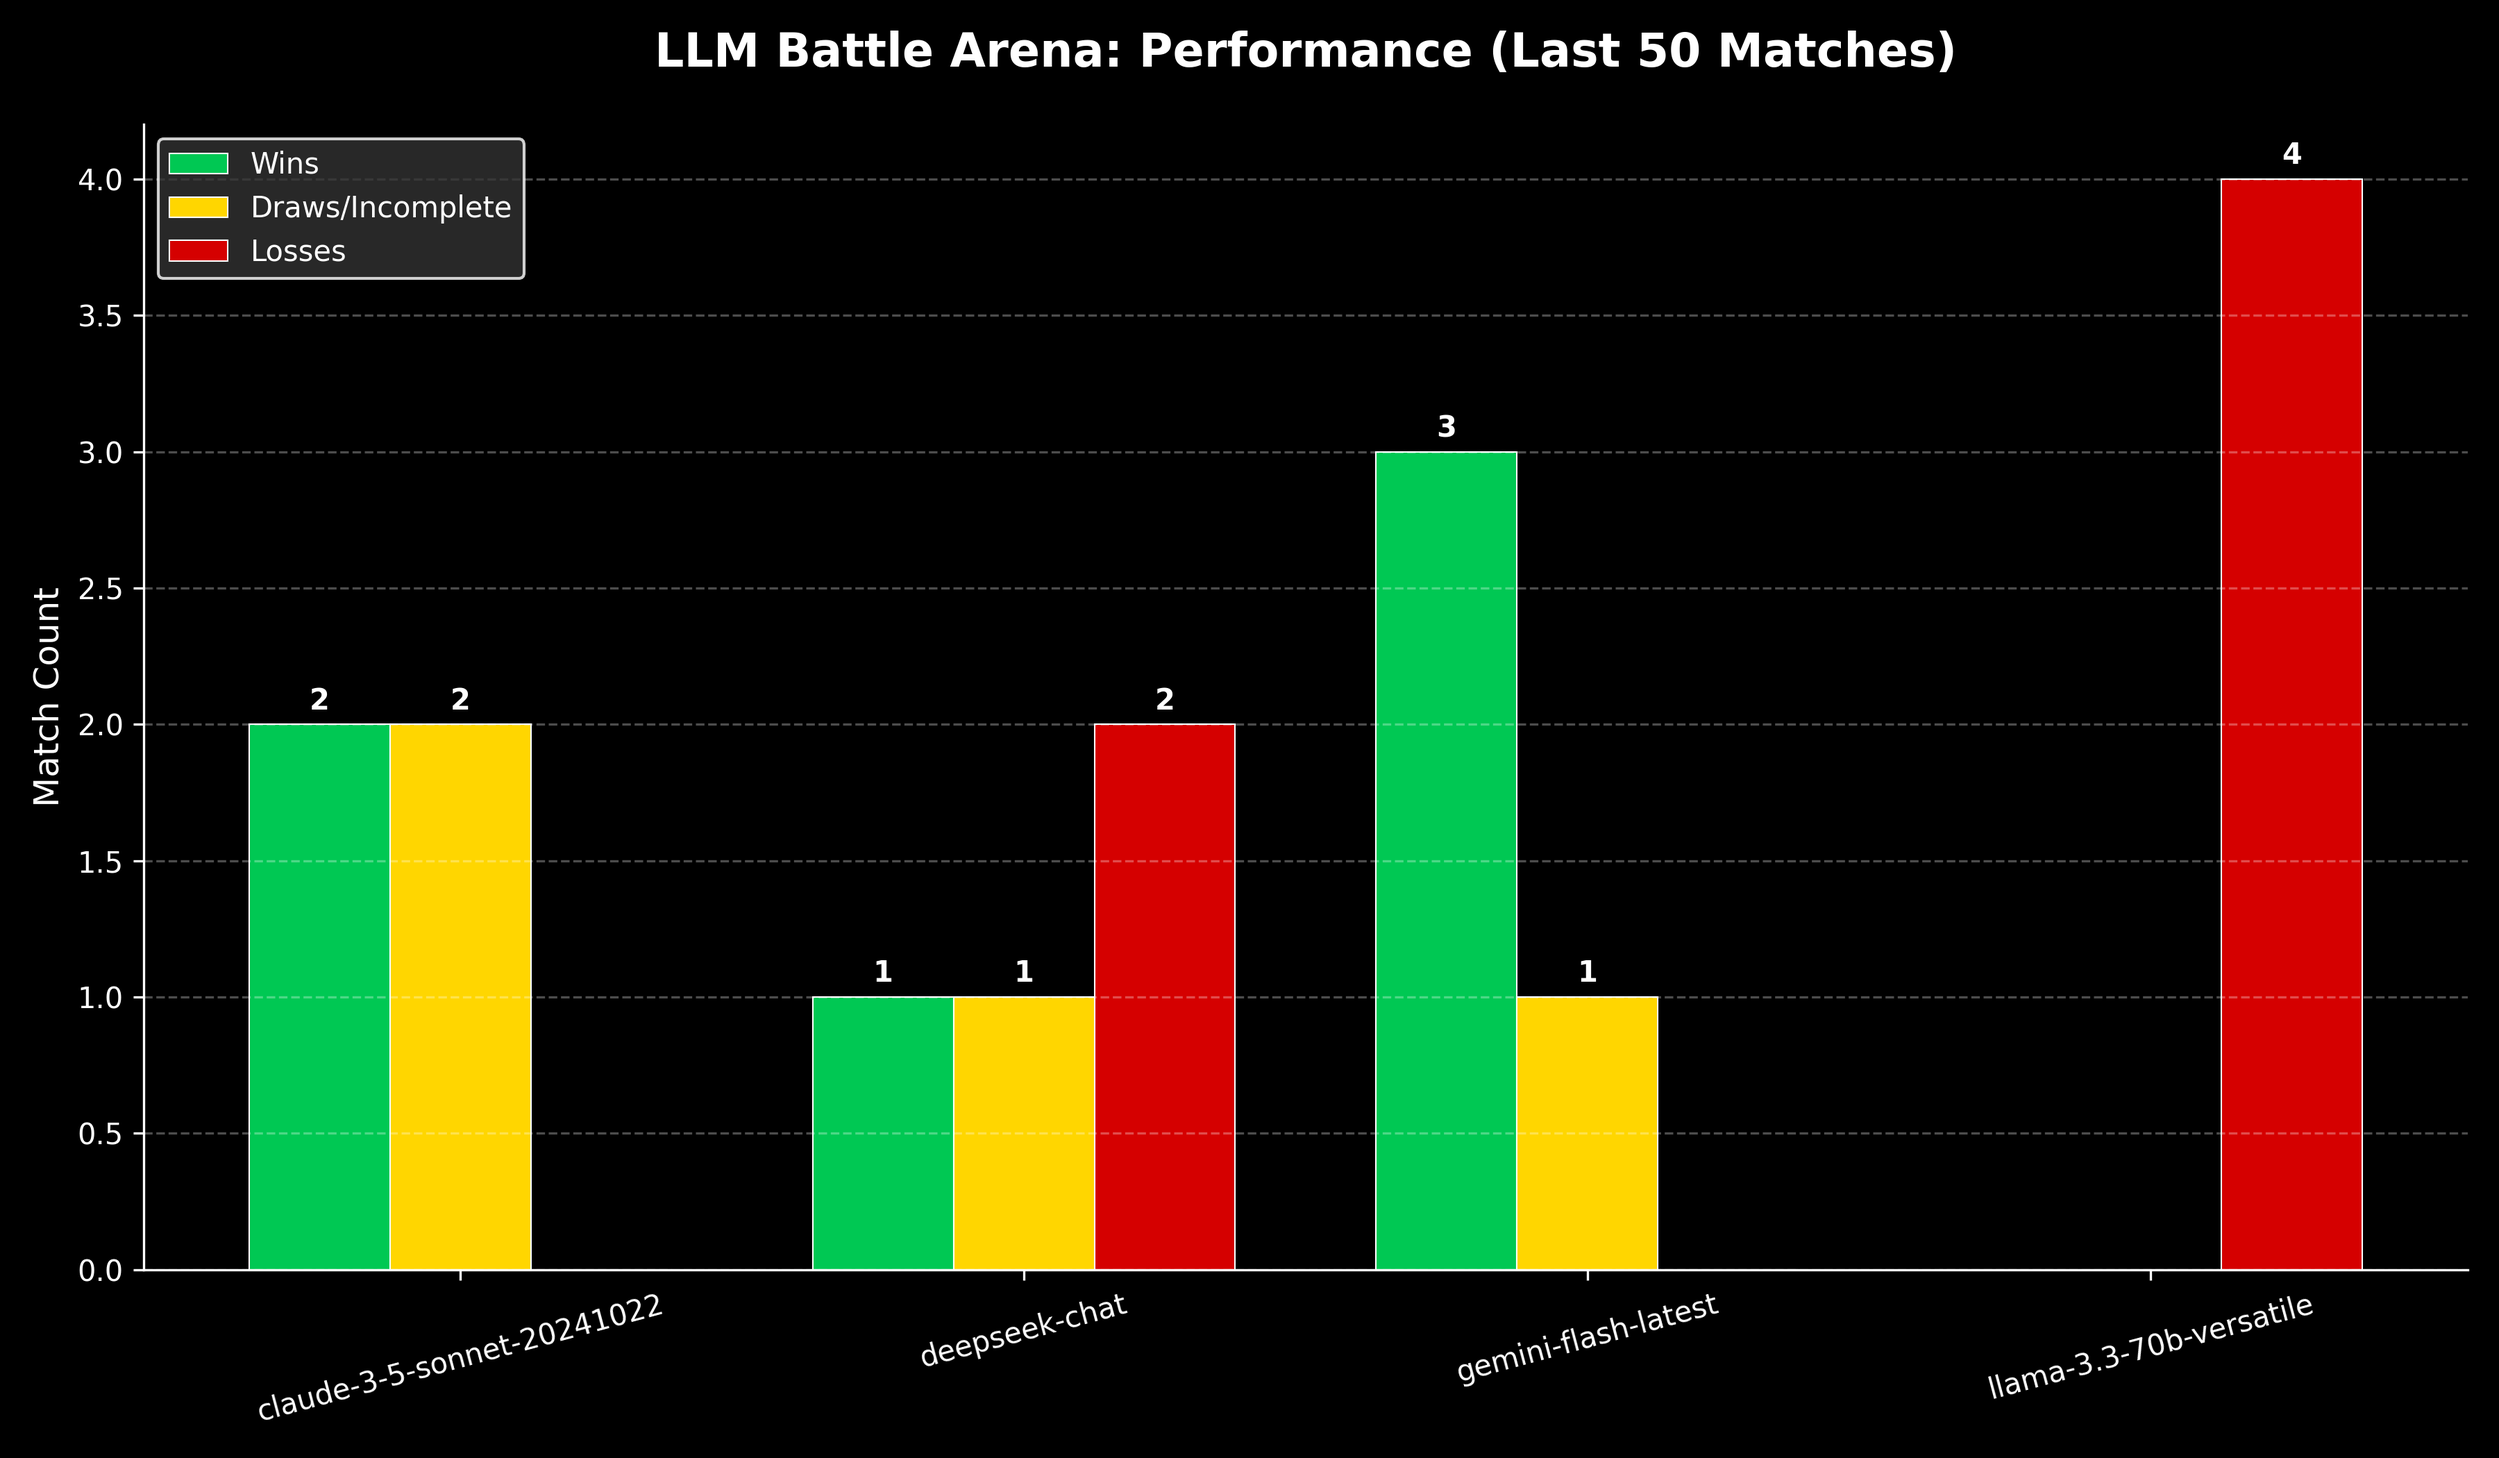
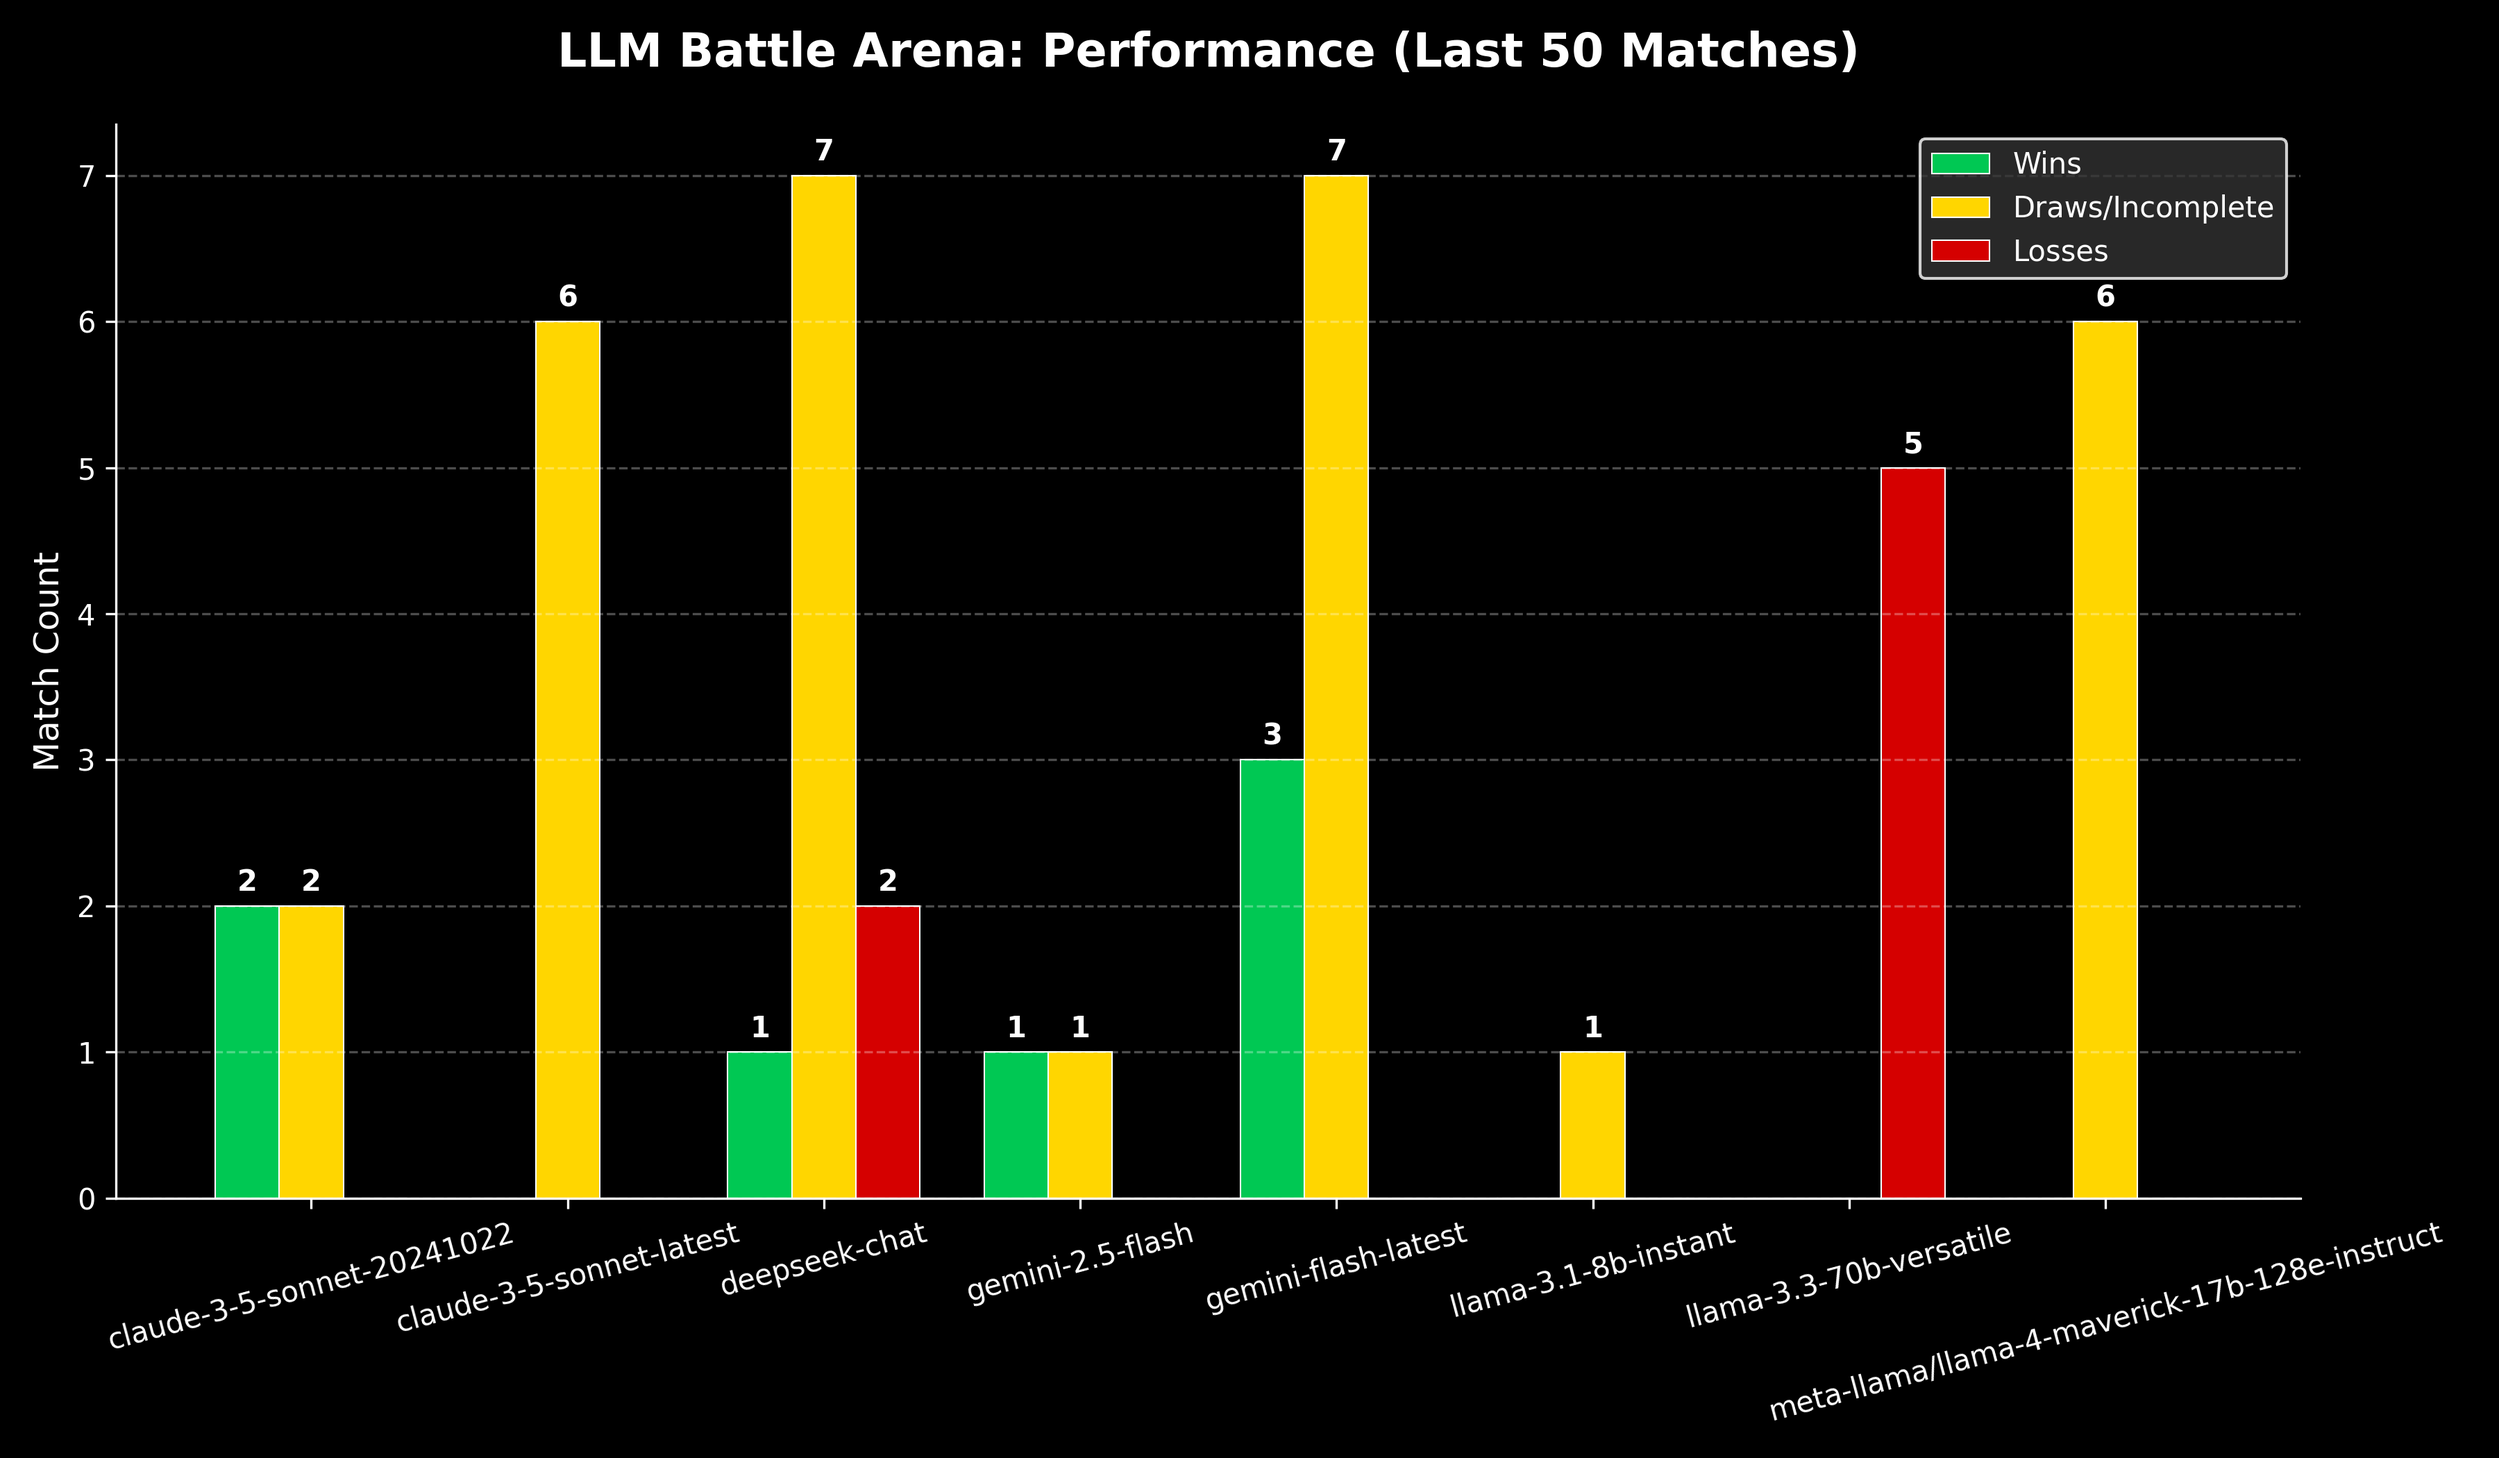
updated code

diff --git a/main.py b/main.py
@@ -51,12 +51,10 @@ def start_battle(model_a_name, model_b_name):
     generate_performance_graph()
 
 if __name__ == "__main__":
-    # The ultimate 4-Model Battle Royale!
+    # Battle between our active free-tier models: Gemini and Groq (Llama)
     models = [
-        "gemini-flash-latest",
-        "llama-3.3-70b-versatile",
-        "claude-3-5-sonnet-20241022",
-        "deepseek-chat" # deepseek-v3 or deepseek-reasoner can also be used
+        "gemini-2.5-flash",
+        "llama-3.3-70b-versatile"
     ]
     
     # Run a Round-Robin (Each plays each other)
@@ -64,7 +62,7 @@ if __name__ == "__main__":
     for i in range(len(models)):
         for j in range(i + 1, len(models)):
             print(f"\n🚀 TOURNAMENT MATCH {match_num}")
-            # start_battle(models[i], models[j]) # Commented out as requested
+            start_battle(models[i], models[j]) 
             print(f"Match Setup: {models[i]} vs {models[j]}") 
             print("-" * 40)
             match_num += 1
